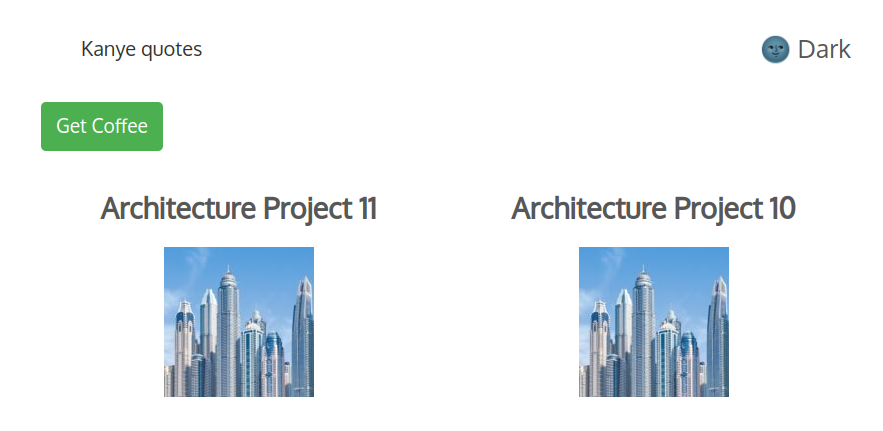
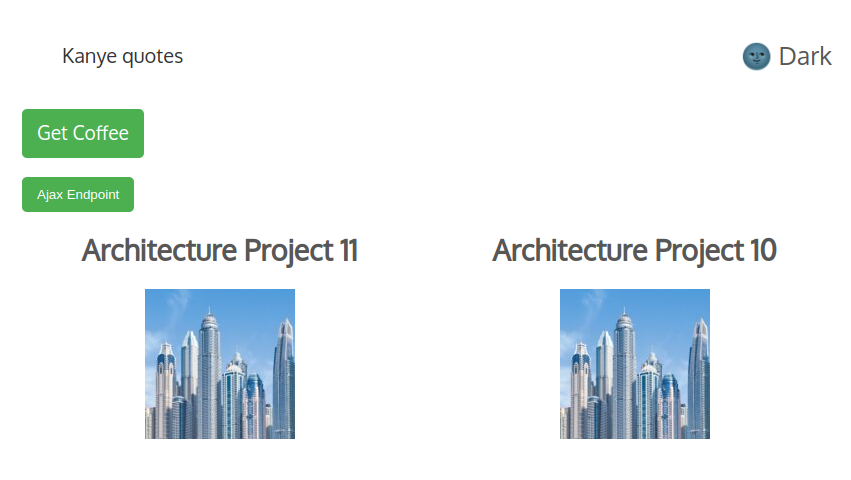
Updated Readme

diff --git a/README.md b/README.md
@@ -10,6 +10,12 @@ WordPress Assessment Task
 1) Use shortcode [min_ec_kanye_quotes] to display kanye quotes.
 2) Five random quotes will be displayed.
 
+![Screenshot](get-coffee.png)
+Clicking on Get Coffee button will redirect to a coffee image link.
+Use shortcode [min_ec_get_coffee] to display coffee button.
+
+AJAX EndPoint
+Click on Ajax Endpoint button and response will be logged in the browser console.
 ![Screenshot](Results-when-user-is-logged-in.png)
 
 Response from Ajax endpoint when user is logged in.
@@ -21,9 +27,7 @@ Response from Ajax endpoint when user is logged out.
 ![Screenshot](archive-page.png)
 Archive page will display 6 projects per page. Url is /projects.
 
-![Screenshot](get-coffee.png)
-Clicking on Get Coffee button will redirect to a coffee image link.
-Use shortcode [min_ec_get_coffee] to display coffee button.
+
 
 ![Screenshot](redirect-function.png)
 
